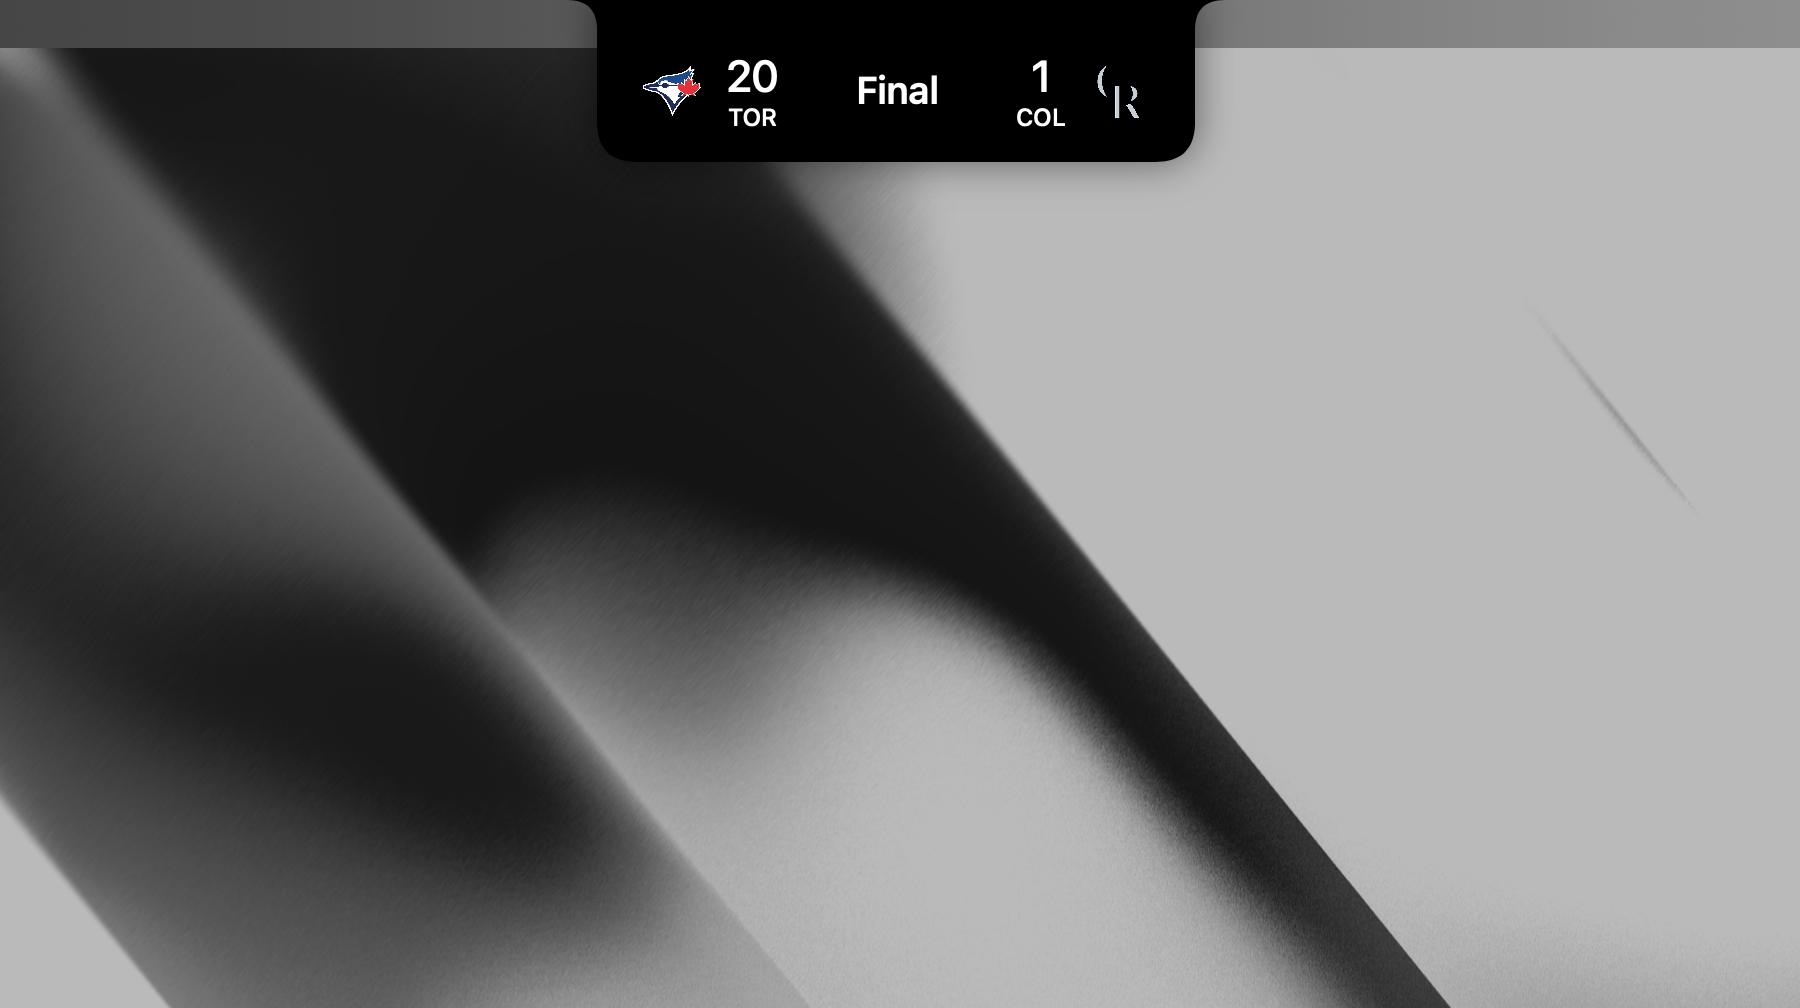
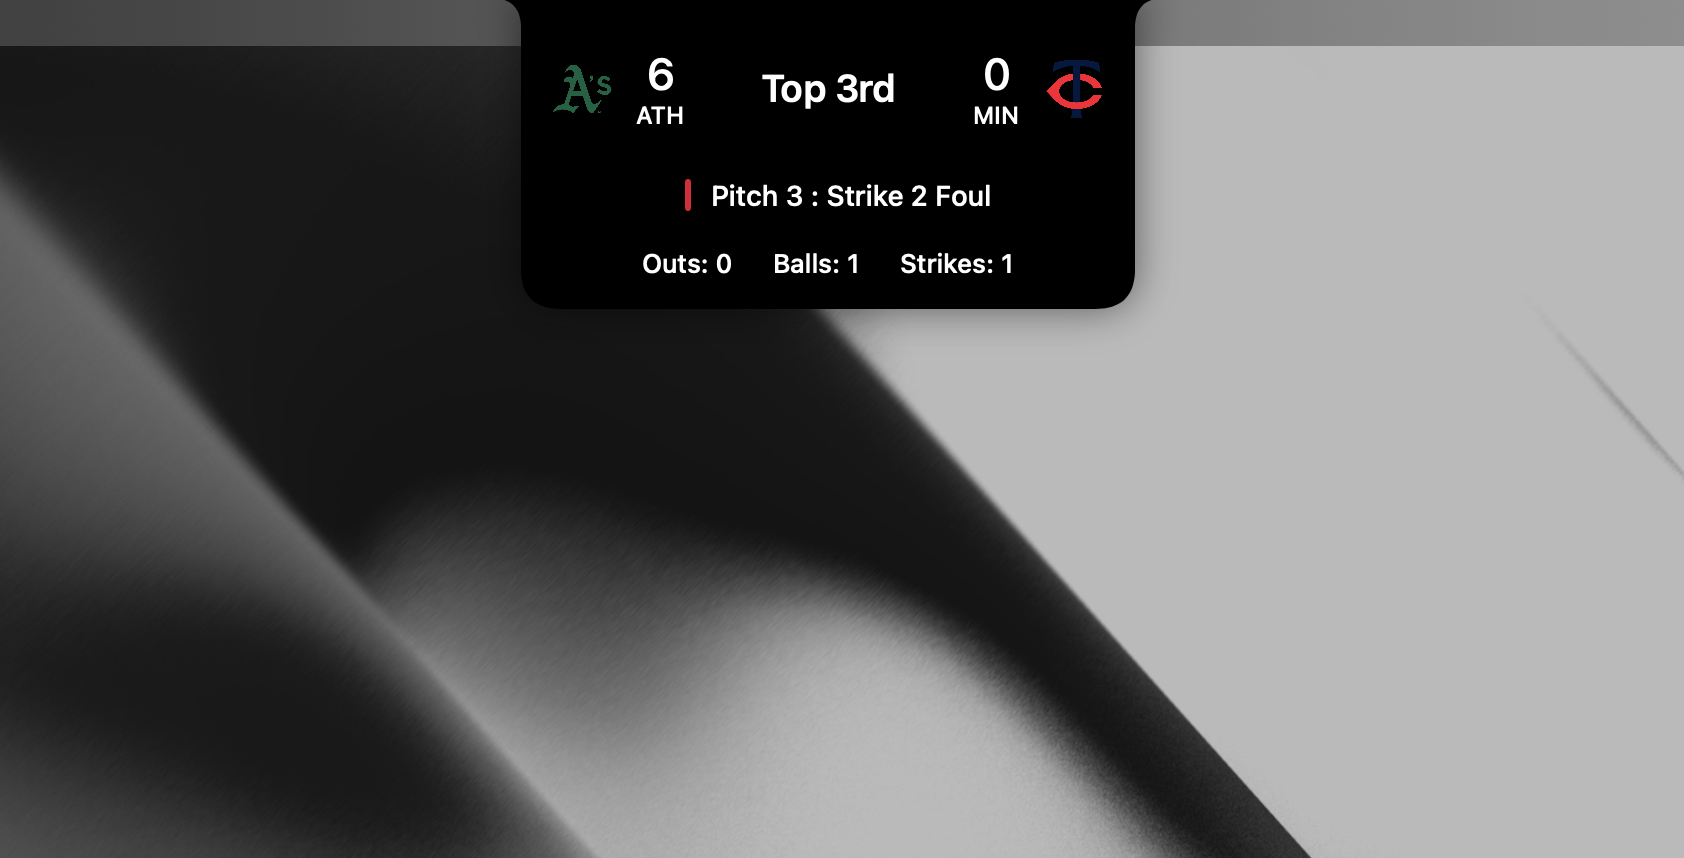
Updated README.md

diff --git a/README.md b/README.md
@@ -55,7 +55,7 @@
 
 ## Features
 
-- **Live Notch Scores** - Pin games to your notch and receive real-time score updates available at a glace.
+- **Live Notch Scores** - Pin games to your notch and receive real-time score updates and game info available at a glace.
 - **Live Menubar Scores** - Pin games to your menu bar and receive real-time score updates available at a glance.
 - **Smart Notifications** - Get notified when a pinned game starts or finishes.
 - **League Control** - Choose which leagues are shown and stay focused on the sports you care about.
